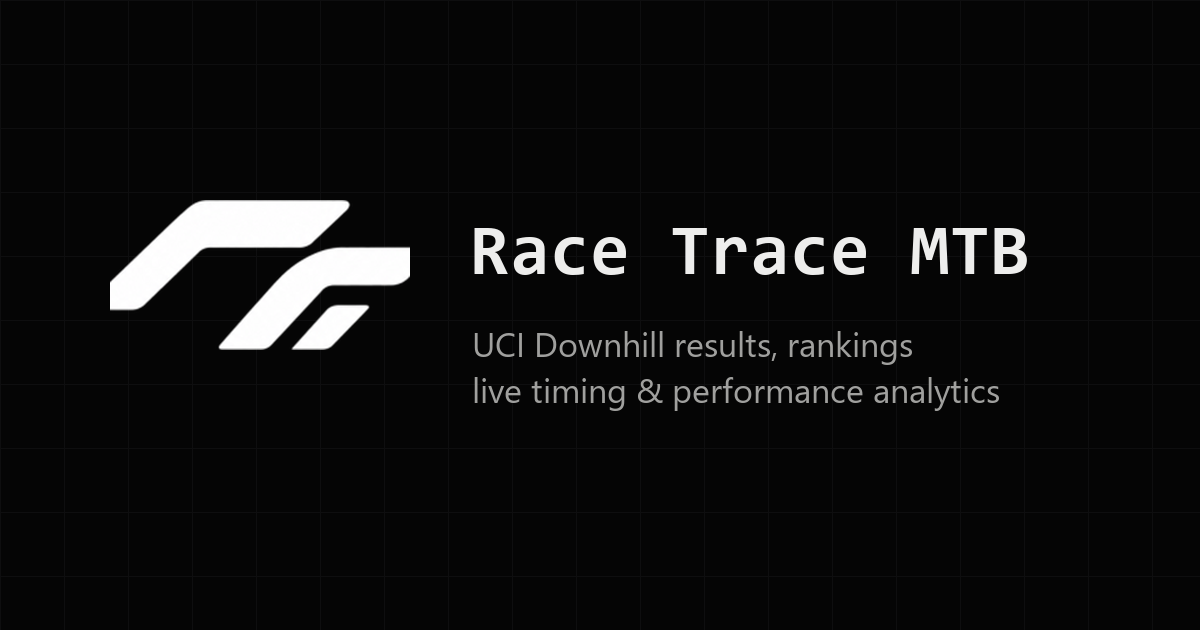
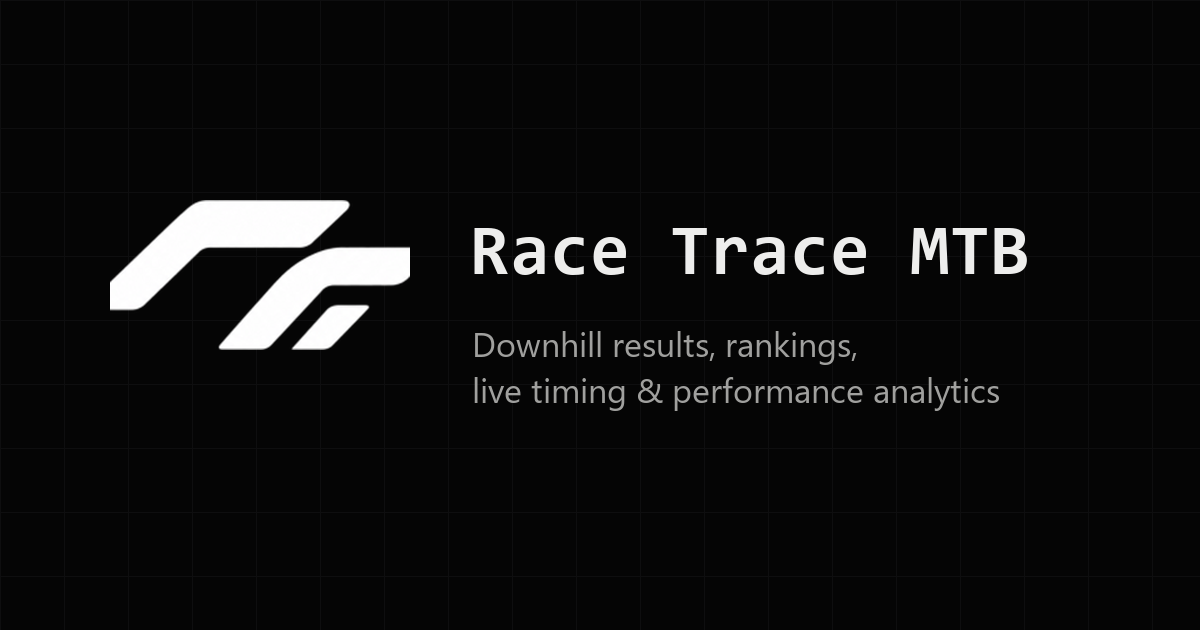
Drop UCI from page titles and metadata; stop menu text shifting on hover
Titles, descriptions, social tags, JSON-LD, manifest and the OG image no
longer use the UCI name (the About description keeps its mention). The
filter menu opens with an opacity-only animation, so item text no longer
shifts on the first hover after opening.

Changed region(s): [[0.4008, 0.5127, 0.7708, 0.573]]

diff --git a/src/config/seo.ts b/src/config/seo.ts
@@ -7,39 +7,39 @@ export type PageMeta = {
 }
 
 const defaultDescription =
-  'Explore UCI Downhill World Cup results, live timing, rider rankings, split times and performance analytics. Compare riders and follow MTB downhill racing.'
+  'Explore Downhill World Cup results, live timing, rider rankings, split times and performance analytics. Compare riders and follow MTB downhill racing.'
 
 // Titles and descriptions for the main pages. Rider, round and live-session pages use generic
 // entries and are not listed in the sitemap.
 export const pageMeta = {
   home: {
-    title: 'Race Trace MTB | UCI Downhill Results, Rankings & MTB Analytics',
+    title: 'Race Trace MTB | Downhill Results, Rankings & MTB Analytics',
     description: defaultDescription,
   },
   results: {
-    title: 'Downhill World Cup Results & UCI DH Qualifying | Race Trace MTB',
+    title: 'Downhill World Cup Results & DH Qualifying | Race Trace MTB',
     description:
-      'UCI Downhill World Cup results for every round: qualifying, semi-finals and finals with split times, sector times and rider gaps.',
+      'Downhill World Cup results for every round: qualifying, semi-finals and finals with split times, sector times and rider gaps.',
   },
   ranking: {
     title: 'Downhill Rider Rankings & MTB Ratings | Race Trace MTB',
     description:
-      'Downhill rider rankings and MTB rider ratings built from UCI World Cup results: pace, consistency, points and finals across seasons and tracks.',
+      'Downhill rider rankings and MTB rider ratings built from World Cup results: pace, consistency, points and finals across seasons and tracks.',
   },
   live: {
     title: 'Downhill Live Timing & MTB World Cup Live Results | Race Trace MTB',
     description:
-      'Follow UCI Downhill World Cup live timing: live results, split times, sector gaps and the provisional standings while riders are on track.',
+      'Follow Downhill World Cup live timing: live results, split times, sector gaps and the provisional standings while riders are on track.',
   },
   compare: {
     title: 'Downhill Rider Comparison & Performance Stats | Race Trace MTB',
     description:
-      'Compare two downhill riders side by side: results, sector times, ratings and performance across UCI World Cup seasons and tracks.',
+      'Compare two downhill riders side by side: results, sector times, ratings and performance across World Cup seasons and tracks.',
   },
   fantasy: {
     title: 'MTB Downhill Fantasy Team & Predictions | Race Trace MTB',
     description:
-      'Build a MTB downhill fantasy team with projected points and downhill fantasy predictions for the next UCI World Cup round.',
+      'Build a MTB downhill fantasy team with projected points and downhill fantasy predictions for the next World Cup round.',
   },
   about: {
     title: 'About Race Trace MTB | Independent Downhill Analytics',
@@ -52,11 +52,11 @@ export const pageMeta = {
   },
   rider: {
     title: 'Downhill Rider Stats & Results | Race Trace MTB',
-    description: 'Downhill rider statistics, results, ratings and track performance from UCI World Cup racing.',
+    description: 'Downhill rider statistics, results, ratings and track performance from World Cup racing.',
   },
   round: {
     title: 'Downhill Round Results & Analysis | Race Trace MTB',
-    description: 'UCI Downhill round results with qualifying, finals, split times and race analysis.',
+    description: 'Downhill round results with qualifying, finals, split times and race analysis.',
   },
   liveSession: {
     title: 'Live Session Results | Race Trace MTB',

diff --git a/index.html b/index.html
@@ -4,10 +4,10 @@
     <meta charset="UTF-8" />
     <meta name="viewport" content="width=device-width, initial-scale=1.0" />
     <meta name="theme-color" content="#050505" />
-    <title>Race Trace MTB | UCI Downhill Results, Rankings &amp; MTB Analytics</title>
+    <title>Race Trace MTB | Downhill Results, Rankings &amp; MTB Analytics</title>
     <meta
       name="description"
-      content="Explore UCI Downhill World Cup results, live timing, rider rankings, split times and performance analytics. Compare riders and follow MTB downhill racing."
+      content="Explore Downhill World Cup results, live timing, rider rankings, split times and performance analytics. Compare riders and follow MTB downhill racing."
     />
     <link rel="canonical" href="https://racetracemtb.com/" />
     <meta name="application-name" content="Race Trace MTB" />
@@ -21,22 +21,22 @@
     <meta property="og:type" content="website" />
     <meta property="og:site_name" content="Race Trace MTB" />
     <meta property="og:locale" content="en_US" />
-    <meta property="og:title" content="Race Trace MTB | UCI Downhill Results, Rankings &amp; MTB Analytics" />
+    <meta property="og:title" content="Race Trace MTB | Downhill Results, Rankings &amp; MTB Analytics" />
     <meta
       property="og:description"
-      content="Explore UCI Downhill World Cup results, live timing, rider rankings, split times and performance analytics. Compare riders and follow MTB downhill racing."
+      content="Explore Downhill World Cup results, live timing, rider rankings, split times and performance analytics. Compare riders and follow MTB downhill racing."
     />
     <meta property="og:url" content="https://racetracemtb.com/" />
     <meta property="og:image" content="https://racetracemtb.com/og-image.png" />
     <meta property="og:image:width" content="1200" />
     <meta property="og:image:height" content="630" />
-    <meta property="og:image:alt" content="Race Trace MTB — UCI Downhill results, rankings, live timing and performance analytics" />
+    <meta property="og:image:alt" content="Race Trace MTB — Downhill results, rankings, live timing and performance analytics" />
 
     <meta name="twitter:card" content="summary_large_image" />
-    <meta name="twitter:title" content="Race Trace MTB | UCI Downhill Results, Rankings &amp; MTB Analytics" />
+    <meta name="twitter:title" content="Race Trace MTB | Downhill Results, Rankings &amp; MTB Analytics" />
     <meta
       name="twitter:description"
-      content="Explore UCI Downhill World Cup results, live timing, rider rankings, split times and performance analytics. Compare riders and follow MTB downhill racing."
+      content="Explore Downhill World Cup results, live timing, rider rankings, split times and performance analytics. Compare riders and follow MTB downhill racing."
     />
     <meta name="twitter:image" content="https://racetracemtb.com/og-image.png" />
 
@@ -48,7 +48,7 @@
         "name": "Race Trace MTB",
         "alternateName": ["RaceTrace", "Race Trace"],
         "url": "https://racetracemtb.com/",
-        "description": "UCI MTB downhill analytics: World Cup results, live timing, rider rankings, split times and performance statistics."
+        "description": "MTB downhill analytics: World Cup results, live timing, rider rankings, split times and performance statistics."
       }
     </script>
   </head>

diff --git a/src/components/filters/filter-popover.module.css b/src/components/filters/filter-popover.module.css
@@ -51,15 +51,15 @@
   border-radius: var(--radius-pill);
 }
 
+/* Opacity only: a scale or translate here left the text rasterised from the animated layer,
+   so it shifted slightly on the first hover after opening. */
 @keyframes context-menu-open {
   from {
     opacity: 0;
-    transform: scale(0.96) translateY(-4px);
   }
 
   to {
     opacity: 1;
-    transform: scale(1);
   }
 }
 
